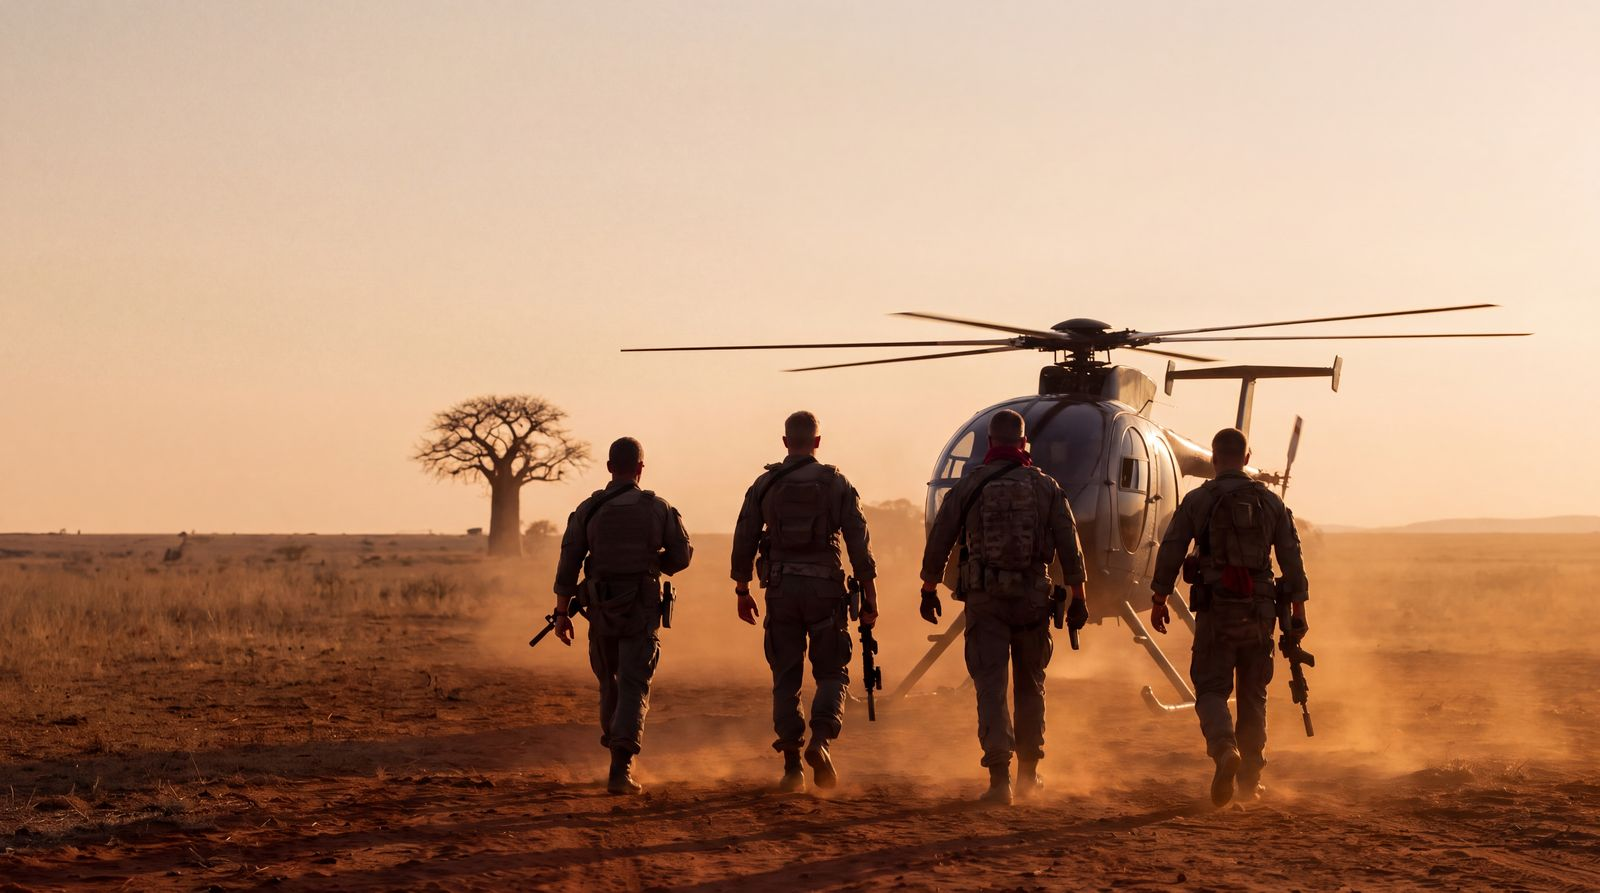
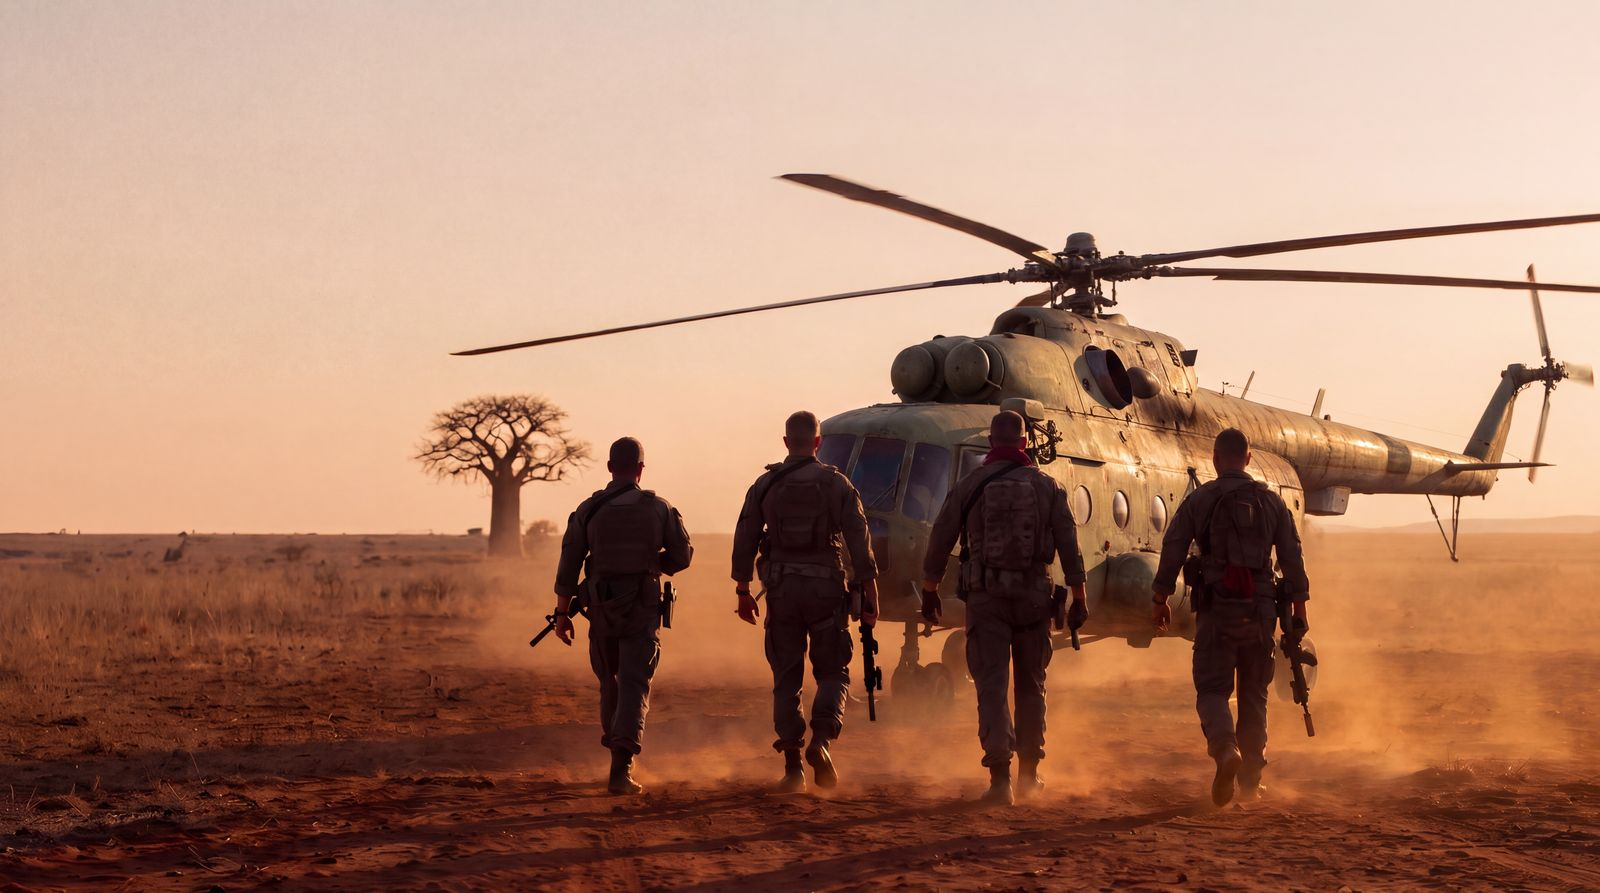
Oude Sovjethelikopter in HOME-02 en TACT-03
De helikopters vervangen door een oude, ongemarkeerde transporthelikopter,
met een Gemini-bewerking van de bestaande beelden. Alleen beeld, geen canon.

Gecontroleerd: geen sterren, nummers of andere markeringen; php -l;
hero's binnen het budget.

diff --git a/website/public/wereldwijd/index.php b/website/public/wereldwijd/index.php
@@ -10,7 +10,7 @@ component('hero', [
     'kop' => 'Waar wij actief zijn',
     'intro' => 'Met veertig vestigingen in vier regio\'s zijn wij dicht bij onze opdrachtgevers. Of in elk geval bij hun postbus.',
     'beeld' => 'TACT-03',
-    'alt' => 'Een kleine ongemarkeerde helikopter vliegt laag over de savanne bij zonsondergang.',
+    'alt' => 'Een oude ongemarkeerde transporthelikopter vliegt laag over de savanne bij zonsondergang.',
 ]);
 $regios = [
     'Afrika' => ['Beira', 'Brazzaville', 'Chimoio', 'Freetown', 'Harare', 'Kinshasa', 'Lilongwe', 'Luanda', 'Lungi', 'Malabo', 'Manica', 'Maputo', 'Mbabane', 'Victoria Falls'],

diff --git a/website/beeldtaal.md b/website/beeldtaal.md
@@ -118,7 +118,7 @@ Zet steeds eerst het stijlblok voor de prompt.
 Two weathered 1970s Land Rovers parked on a red dirt road in African savanna at golden hour, a large baobab tree on the horizon, dust hanging in the warm light. Four white Rhodesian soldiers in plain olive field clothing stand beside the vehicles seen from behind, looking toward the horizon; one of them is noticeably taller and broader than the others. The scene is calm and patient, as if they have been waiting a long time.
 
 **HOME-02 — Security.** *Aspect ratio 16:9.*
-A small team in tactical gear with slung carbines walking toward a small, unmarked dark grey utility helicopter waiting on a dusty landing zone at golden hour, dust in the air. Seen from behind, faces not visible.
+A small team in tactical gear with slung carbines walking toward an old, unmarked Soviet-era twin-engine transport helicopter with faded olive-drab paint waiting on a dusty landing zone at golden hour, dust in the air. Seen from behind, faces not visible.
 
 **HOME-03 — Hospitality.** *Aspect ratio 16:9.*
 A simple, elegant bar on a wooden deck by the sea at sunset, a single glass of beer on the counter, an empty chair, warm golden light, a calm ocean in the background.
@@ -172,7 +172,7 @@ A herd of goats walking through dry Caribbean scrubland with cacti at sunrise, s
 
 ### Tactisch
 
-De tactische beelden laten paraatheid en beveiliging zien, nooit een gevecht. Wapens hangen aan de draagriem of wijzen naar de grond. Helikopters en voertuigen zijn ongemarkeerd en geen herkenbaar echt type met markeringen. Gezichten zijn van achteren, in de schaduw of achter pet en zonnebril.
+De tactische beelden laten paraatheid en beveiliging zien, nooit een gevecht. Wapens hangen aan de draagriem of wijzen naar de grond. Helikopters zijn oude Sovjettransporthelikopters in verbleekt olijfgroen, zonder sterren, nummers of andere markeringen. Voertuigen zijn ongemarkeerd. De helikopter is alleen beeld en hoort niet bij het verhaal. Gezichten zijn van achteren, in de schaduw of achter pet en zonnebril.
 
 **TACT-01 — Mijnbouw.** *Aspect ratio 16:9.* Hero van Sectoren.
 A security guard with a slung rifle seen from behind on a raised earth berm overlooking an open-pit mine at sunrise, binoculars in hand, heavy machinery small in the distance, a chain-link fence with razor wire in the foreground.
@@ -181,7 +181,7 @@ A security guard with a slung rifle seen from behind on a raised earth berm over
 A briefing on the hood of a dusty 4x4 vehicle in early morning light: a paper map spread out, hands pointing at it, a compass, a radio and a pair of gloves on the map. Men in tactical vests around the vehicle, visible only from the chest down. The map has no readable text.
 
 **TACT-03 — Helikopter.** *Aspect ratio 16:9.* Hero van Wereldwijd.
-A single small, unmarked utility helicopter flying low over African savanna at golden hour, seen from behind and slightly above, its shadow on the grass, a few acacia trees, dust and haze.
+A single old, unmarked Soviet-era twin-engine transport helicopter with faded olive-drab paint flying low over African savanna at golden hour, seen from behind and slightly above, its shadow on the grass, a few acacia trees, dust and haze.
 
 ### Iconen
 

diff --git a/docs/beslissingen.md b/docs/beslissingen.md
@@ -40,6 +40,7 @@ Wat is besloten, wanneer en waarom. Nieuwe beslissingen komen bovenaan in de tab
 | 2026-11-10 | Een beeld mag horizontaal gespiegeld worden als er geen tekst of asymmetrisch herkenbaar detail in staat. Dat staat dan in het manifest. | De tekst in de hero staat links; het onderwerp hoort rechts. |
 | 2026-11-10 | De vier oprichters staan in beeld als witte mannen; in de prompts heten ze *white Rhodesian soldiers*. | Zo zien de teamleden eruit, en het past bij het verhaal (Rhodesische militairen in 1979). |
 | 2026-11-10 | Meer tactische beelden: beveiligers met wapens, konvooien en helikopters, bij Security en als hero van Sectoren, Ethiek en compliance en Wereldwijd. Paraatheid, nooit een gevecht; wapens aan de draagriem of naar de grond; gezichten mogen achter pet en zonnebril. | Echte PMC-sites tonen tactisch werk. Hoe serieuzer de beelden, hoe beter de grap elders werkt. |
+| 2026-11-10 | Helikopters op de beelden zijn oude, ongemarkeerde Sovjettransporthelikopters. Ze zijn alleen beeld: de groep heeft in het verhaal geen helikopter. | Past bij de sfeer (Morozov, de Antonov) zonder iets aan de canon toe te voegen. |
 | 2026-11-10 | Alleen een productieomgeving. Deploy via GitHub Actions met SFTP, of FTPS als dat niet kan. | Eenvoudig. Lokaal testen met `php -S` vervangt een testomgeving. |
 | 2026-11-10 | Teksten worden aangeleverd en door Claude omgezet naar pagina's en persberichten. | Het team schrijft, de opmaak blijft consequent. |
 | 2026-11-10 | Snelheid weegt zwaar, met harde budgetten per pagina. Mobile-first en responsive. | De site moet op mobiel direct laden. |
